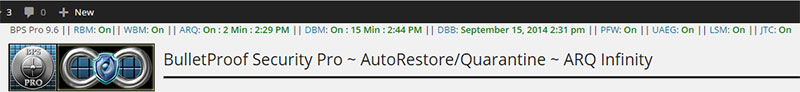
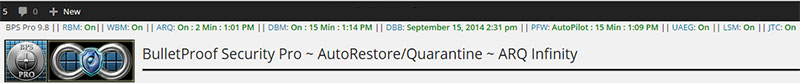
Commit .51.3
git-svn-id: https://plugins.svn.wordpress.org/bulletproof-security/trunk@1028339 b8457f37-d9ea-0310-8a92-e5e31aec5664

diff --git a/admin/js/bulletproof-security-admin-5.js b/admin/js/bulletproof-security-admin-5.js
@@ -134,7 +134,10 @@ jQuery(document).ready(function($){
 			modal: false,
 		 	width: 400,
 		 	height: 500,			
-		 	position: "center",
+		 	position: { 
+				my: "center", 
+				at: "center" 
+			},
 		 	buttons: {             
 				"Close": function() {                 
 					$(this).dialog("close");             
@@ -162,7 +165,10 @@ jQuery(document).ready(function($){
 			modal: false,
 		 	width: 400,
 		 	height: 500,			
-		 	position: "center",
+		 	position: { 
+				my: "center", 
+				at: "center" 
+			},
 		 	buttons: {             
 				"Close": function() {                 
 					$(this).dialog("close");             
@@ -190,7 +196,10 @@ jQuery(document).ready(function($){
 			modal: false,
 		 	width: 400,
 		 	height: 500,			
-		 	position: "center",
+		 	position: { 
+				my: "center", 
+				at: "center" 
+			},
 		 	buttons: {             
 				"Close": function() {                 
 					$(this).dialog("close");             
@@ -218,7 +227,10 @@ jQuery(document).ready(function($){
 			modal: false,
 		 	width: 400,
 		 	height: 500,			
-		 	position: "center",
+		 	position: { 
+				my: "center", 
+				at: "center" 
+			},
 		 	buttons: {             
 				"Close": function() {                 
 					$(this).dialog("close");             
@@ -246,7 +258,10 @@ jQuery(document).ready(function($){
 			modal: false,
 		 	width: 400,
 		 	height: 500,			
-		 	position: "center",
+		 	position: { 
+				my: "center", 
+				at: "center" 
+			},
 		 	buttons: {             
 				"Close": function() {                 
 					$(this).dialog("close");             
@@ -274,7 +289,10 @@ jQuery(document).ready(function($){
 			modal: false,
 		 	width: 400,
 		 	height: 500,			
-		 	position: "center",
+		 	position: { 
+				my: "center", 
+				at: "center" 
+			},
 		 	buttons: {             
 				"Close": function() {                 
 					$(this).dialog("close");             
@@ -302,7 +320,10 @@ jQuery(document).ready(function($){
 			modal: false,
 		 	width: 400,
 		 	height: 500,			
-		 	position: "center",
+		 	position: { 
+				my: "center", 
+				at: "center" 
+			},
 		 	buttons: {             
 				"Close": function() {                 
 					$(this).dialog("close");             
@@ -330,7 +351,10 @@ jQuery(document).ready(function($){
 			modal: false,
 		 	width: 400,
 		 	height: 500,			
-		 	position: "center",
+		 	position: { 
+				my: "center", 
+				at: "center" 
+			},
 		 	buttons: {             
 				"Close": function() {                 
 					$(this).dialog("close");             
@@ -358,7 +382,10 @@ jQuery(document).ready(function($){
 			modal: false,
 		 	width: 400,
 		 	height: 500,			
-		 	position: "center",
+		 	position: { 
+				my: "center", 
+				at: "center" 
+			},
 		 	buttons: {             
 				"Close": function() {                 
 					$(this).dialog("close");             
@@ -386,7 +413,10 @@ jQuery(document).ready(function($){
 			modal: false,
 		 	width: 400,
 		 	height: 500,			
-		 	position: "center",
+		 	position: { 
+				my: "center", 
+				at: "center" 
+			},
 		 	buttons: {             
 				"Close": function() {                 
 					$(this).dialog("close");             
@@ -414,7 +444,10 @@ jQuery(document).ready(function($){
 			modal: false,
 		 	width: 400,
 		 	height: 500,			
-		 	position: "center",
+		 	position: { 
+				my: "center", 
+				at: "center" 
+			},
 		 	buttons: {             
 				"Close": function() {                 
 					$(this).dialog("close");             
@@ -442,7 +475,10 @@ jQuery(document).ready(function($){
 			modal: false,
 		 	width: 400,
 		 	height: 500,			
-		 	position: "center",
+		 	position: { 
+				my: "center", 
+				at: "center" 
+			},
 		 	buttons: {             
 				"Close": function() {                 
 					$(this).dialog("close");             
@@ -470,7 +506,10 @@ jQuery(document).ready(function($){
 			modal: false,
 		 	width: 400,
 		 	height: 500,			
-		 	position: "center",
+		 	position: { 
+				my: "center", 
+				at: "center" 
+			},
 		 	buttons: {             
 				"Close": function() {                 
 					$(this).dialog("close");             
@@ -498,7 +537,10 @@ jQuery(document).ready(function($){
 			modal: false,
 		 	width: 400,
 		 	height: 500,			
-		 	position: "center",
+		 	position: { 
+				my: "center", 
+				at: "center" 
+			},
 		 	buttons: {             
 				"Close": function() {                 
 					$(this).dialog("close");             
@@ -526,7 +568,10 @@ jQuery(document).ready(function($){
 			modal: false,
 		 	width: 400,
 		 	height: 500,			
-		 	position: "center",
+		 	position: { 
+				my: "center", 
+				at: "center" 
+			},
 		 	buttons: {             
 				"Close": function() {                 
 					$(this).dialog("close");             
@@ -554,7 +599,10 @@ jQuery(document).ready(function($){
 			modal: false,
 		 	width: 400,
 		 	height: 500,			
-		 	position: "center",
+		 	position: { 
+				my: "center", 
+				at: "center" 
+			},
 		 	buttons: {             
 				"Close": function() {                 
 					$(this).dialog("close");             
@@ -582,7 +630,10 @@ jQuery(document).ready(function($){
 			modal: false,
 		 	width: 400,
 		 	height: 500,			
-		 	position: "center",
+		 	position: { 
+				my: "center", 
+				at: "center" 
+			},
 		 	buttons: {             
 				"Close": function() {                 
 					$(this).dialog("close");             
@@ -610,7 +661,10 @@ jQuery(document).ready(function($){
 			modal: false,
 		 	width: 400,
 		 	height: 500,			
-		 	position: "center",
+		 	position: { 
+				my: "center", 
+				at: "center" 
+			},
 		 	buttons: {             
 				"Close": function() {                 
 					$(this).dialog("close");             
@@ -638,7 +692,10 @@ jQuery(document).ready(function($){
 			modal: false,
 		 	width: 400,
 		 	height: 500,			
-		 	position: "center",
+		 	position: { 
+				my: "center", 
+				at: "center" 
+			},
 		 	buttons: {             
 				"Close": function() {                 
 					$(this).dialog("close");             
@@ -666,7 +723,10 @@ jQuery(document).ready(function($){
 			modal: false,
 		 	width: 400,
 		 	height: 500,			
-		 	position: "center",
+		 	position: { 
+				my: "center", 
+				at: "center" 
+			},
 		 	buttons: {             
 				"Close": function() {                 
 					$(this).dialog("close");             
@@ -694,7 +754,10 @@ jQuery(document).ready(function($){
 			modal: false,
 		 	width: 400,
 		 	height: 500,			
-		 	position: "center",
+		 	position: { 
+				my: "center", 
+				at: "center" 
+			},
 		 	buttons: {             
 				"Close": function() {                 
 					$(this).dialog("close");             
@@ -722,7 +785,10 @@ jQuery(document).ready(function($){
 			modal: false,
 		 	width: 400,
 		 	height: 500,			
-		 	position: "center",
+		 	position: { 
+				my: "center", 
+				at: "center" 
+			},
 		 	buttons: {             
 				"Close": function() {                 
 					$(this).dialog("close");             

diff --git a/admin/core/options.php b/admin/core/options.php
@@ -1557,7 +1557,26 @@ if ( !current_user_can('manage_options') ) {
   </tr> 
   <tr>
     <td class="bps-table_cell_no_border">&bull;</td>
-    <td class="bps-table_cell_no_border"><?php $text = '<h3><strong>'.__('Significant Root and wp-admin htaccess File Changes:', 'bulletproof-security').'</strong></h3>'.__('Most significant changes/fixes/improvements to the BPS root and wp-admin htaccess files.<br>For additional information about these changes click this Forum link: ', 'bulletproof-security').'<strong><a href="http://forum.ait-pro.com/forums/topic/root-and-wp-admin-htaccess-file-significant-changes/ target="_blank" title="Significant Root and wp-admin htaccess File Changes">'.__('Significant Root and wp-admin htaccess File Changes', 'bulletproof-security').'</a></strong><br><br><strong>&bull; Root htaccess File/Code Fix:</strong> Removal of additional instances of "BEGIN WordPress" and "END WordPress" text from the root htaccess file which caused multiple instances of the default wp htaccess code to be created in the root htaccess file when the WP flush_rewrite_rules function was executed by other plugins and themes.<br><br><strong>&bull; htaccess Help Text Improvement Overall:</strong> The help text throughout both the root and wp-admin htaccess files was very dated and was in need of updating. Better/clearer examples have been created in the help text. Overall the htaccess files are more streamlined and less cluttered looking visually.<br><br><strong>&bull; Structure/Order Code Changes:</strong> Several blocks of htaccess code has been structured differently as far as the general order/sequence of code goes in the root htaccess file and more importantly what code will remain in the root htaccess file in the event that the WP flush_rewrite_rules function is executed by another plugin or theme. There are several technical reasons for making these structure/order changes, which I will not bore you with. Basically things are structured/ordered much better for any/every possible scenario that may occur.<br><br><strong>Note:</strong> This is a one-time BPS Update that requires manual steps to be performed. All future versions of BPS will do the normal/typical automatic update of the BPS htaccess files. Overall we felt that creating a Notice about these significant changes vs just doing a normal automatic update was the best route to take for the primary reasons stated above and some additional reasons not stated here.'; echo $text; ?>
+    <td class="bps-table_cell_no_border"><?php $text = '<h3><strong>'.__('WordPress 4.1 jQuery UI Compatibility Code Correction:', 'bulletproof-security').'</strong></h3>'.__('<strong>Bug:</strong> BPS jQuery UI Dialog Read Me help window position not centered in WordPress 4.1.', 'bulletproof-security').'<br>'.__('<strong>Fix:</strong> Corrected the BPS jQuery UI Dialog Position Method code by adding the appropriate "my" and "at" options.', 'bulletproof-security').'<br>'.__('<strong>Note:</strong> For anyone else experiencing this issue see this Forum Topic for the solution: ', 'bulletproof-security').'<strong><a href="http://forum.ait-pro.com/forums/topic/wordpress-4-1-jquery-ui-dialog-window-position-not-centered/" target="_blank" title="jQuery UI Dialog window position not centered">'.__('jQuery UI Dialog window position not centered', 'bulletproof-security').'</a></strong>'; echo $text; ?>
+</td>
+  </tr> 
+  <tr>
+    <td class="bps-table_cell_no_border">&bull;</td>
+    <td class="bps-table_cell_no_border"><?php $text = '<h3><strong>'.__('Help Link Corrections:', 'bulletproof-security').'</strong></h3>'.__('Special thanks to WordPress Member: ', 'bulletproof-security').'<strong><a href="https://wordpress.org/support/profile/mrppp" target="_blank" title="WordPress Member mrppp">'.__('mrppp', 'bulletproof-security').'</a></strong>'.__(' for finding and reporting invalid help links in BPS.', 'bulletproof-security'); echo $text; ?>
+</td>
+  </tr> 
+   <tr>
+    <td class="bps-table_cell_no_border">&nbsp;</td>
+    <td class="bps-table_cell_no_border">&nbsp;</td>
+  </tr> 
+  <tr>
+    <td class="bps-table_cell_no_border">&bull;</td>
+    <td class="bps-table_cell_no_border"><?php $text = '<h2><strong>'.__('Whats New in BPS .51.2', 'bulletproof-security').'</strong></h2>'; echo $text; ?>
+</td>
+  </tr> 
+  <tr>
+    <td class="bps-table_cell_no_border">&bull;</td>
+    <td class="bps-table_cell_no_border"><?php $text = '<h3><strong>'.__('Significant Root and wp-admin htaccess File Changes:', 'bulletproof-security').'</strong></h3>'.__('Most significant changes/fixes/improvements to the BPS root and wp-admin htaccess files.<br>For additional information about these changes click this Forum link: ', 'bulletproof-security').'<strong><a href="http://forum.ait-pro.com/forums/topic/root-and-wp-admin-htaccess-file-significant-changes/" target="_blank" title="Significant Root and wp-admin htaccess File Changes">'.__('Significant Root and wp-admin htaccess File Changes', 'bulletproof-security').'</a></strong><br><br><strong>&bull; Root htaccess File/Code Fix:</strong> Removal of additional instances of "BEGIN WordPress" and "END WordPress" text from the root htaccess file which caused multiple instances of the default wp htaccess code to be created in the root htaccess file when the WP flush_rewrite_rules function was executed by other plugins and themes.<br><br><strong>&bull; htaccess Help Text Improvement Overall:</strong> The help text throughout both the root and wp-admin htaccess files was very dated and was in need of updating. Better/clearer examples have been created in the help text. Overall the htaccess files are more streamlined and less cluttered looking visually.<br><br><strong>&bull; Structure/Order Code Changes:</strong> Several blocks of htaccess code has been structured differently as far as the general order/sequence of code goes in the root htaccess file and more importantly what code will remain in the root htaccess file in the event that the WP flush_rewrite_rules function is executed by another plugin or theme. There are several technical reasons for making these structure/order changes, which I will not bore you with. Basically things are structured/ordered much better for any/every possible scenario that may occur.<br><br><strong>Note:</strong> This is a one-time BPS Update that requires manual steps to be performed. All future versions of BPS will do the normal/typical automatic update of the BPS htaccess files. Overall we felt that creating a Notice about these significant changes vs just doing a normal automatic update was the best route to take for the primary reasons stated above and some additional reasons not stated here.'; echo $text; ?>
 </td>
   </tr>
   <tr>
@@ -1663,7 +1682,7 @@ jQuery(document).ready(function($){
 
 <?php echo '<strong>'; _e('DB Diff Tool: ', 'bulletproof-security'); echo '</strong>'; _e('The DB Diff Tool compares old database tables from DB backups to current database tables and displays any differences in the data/content of those 2 database tables. The DB Diff Tool allows you to check your WordPress Database if you receive a DB Monitor email alert and do not recognize the database table name change/modification.', 'bulletproof-security'); ?><br /><br />
 
-<?php echo '<strong>'; _e('Plugin Firewall: ', 'bulletproof-security'); echo '</strong>'; _e('The Plugin Firewall / Plugins BulletProof Mode prevents/blocks/forbids Remote Access to the plugins folder from external sources (remote script execution, hacker recon, remote scanning, remote accessibility, etc.) and only allows internal access to the plugins folder based on this criteria: Domain name, Server IP Address and Public IP / Your Computer IP Address.', 'bulletproof-security'); ?><br /><br />
+<?php echo '<strong>'; _e('Plugin Firewall: ', 'bulletproof-security'); echo '</strong>'; _e('The Plugin Firewall / Plugins BulletProof Mode prevents/blocks/forbids Remote Access to the plugins folder from external sources (remote script execution, hacker recon, remote scanning, remote accessibility, etc.) and only allows internal access to the plugins folder based on this criteria: Domain name, Server IP Address and Public IP / Your Computer IP Address. True IP based Firewall that updates your IP addres in real-time when it changes. AutoPilot Mode automatically creates plugin whitelist rules in real-time.', 'bulletproof-security'); ?><br /><br />
 
 <?php echo '<strong>'; _e('Uploads Folder Anti-Exploit Guard: ', 'bulletproof-security'); echo '</strong>'; _e('The Uploads Folder Anti-Exploit Guard / Uploads BulletProof Mode allows ONLY safe image files with valid image file extensions such as jpg, gif, png, etc. to be accessed, opened or viewed from the uploads folder. The Uploads Anti-Exploit Guard prevents/blocks/forbids files by file extension names in the uploads folder from being accessed, opened, viewed, processed or executed.', 'bulletproof-security'); ?><br /><br />
 

diff --git a/admin/core/core-custom-code.php b/admin/core/core-custom-code.php
@@ -45,7 +45,7 @@ bps_CustomCode_BPSQSE_check();
 	<?php settings_fields('bulletproof_security_options_customcode'); ?>
 	<?php $options = get_option('bulletproof_security_options_customcode'); ?>
     
-    <strong><label for="bps-CCode"><?php _e('CUSTOM CODE TOP PHP/PHP.INI HANDLER/CACHE CODE:<br>Add php/php.ini handler code, cache code and/or <a href=http://forum.ait-pro.com/forums/topic/htaccess-caching-code-speed-boost-cache-code/" title="Link opens in a new Browser window" target="_blank" style="font-size:11px;">Speed Boost Cache Code</a> here', 'bulletproof-security'); ?> </label></strong><br />
+    <strong><label for="bps-CCode"><?php _e('CUSTOM CODE TOP PHP/PHP.INI HANDLER/CACHE CODE:<br>Add php/php.ini handler code, cache code and/or <a href="http://forum.ait-pro.com/forums/topic/htaccess-caching-code-speed-boost-cache-code/" title="Link opens in a new Browser window" target="_blank" style="font-size:11px;">Speed Boost Cache Code</a> here', 'bulletproof-security'); ?> </label></strong><br />
 <strong><label for="bps-CCode"><?php $text = '<font color="blue">'.__('ONLY add valid php/php.ini handler htaccess code and/or cache htaccess code below or text commented out with a pound sign #', 'bulletproof-security').'</font>'; echo $text ; ?> </label></strong><br />
     <textarea class="bps-text-area-custom-code" name="bulletproof_security_options_customcode[bps_customcode_one]" tabindex="1"><?php echo $options['bps_customcode_one']; ?></textarea>
     </td>

diff --git a/bulletproof-security.php b/bulletproof-security.php
@@ -5,7 +5,7 @@ Plugin URI: http://forum.ait-pro.com/read-me-first/
 Text Domain: bulletproof-security
 Domain Path: /languages/
 Description: Website Security Protection: BulletProof Security protects your website against 100,000's of different hacking attempts/attacks. Built-in .htaccess file Editor. Security Logging/HTTP Error Logging. Login Security/Login Monitoring: Log All Account Logins or Log Only Account Lockouts. DB Backup: Database Backup. Website FrontEnd/BackEnd Maintenance Mode. System Info: PHP, MySQL, OS, Server, Memory Usage, IP, SAPI, WP Filesystem API Method, DNS, Max Upload...
-Version: .51.2
+Version: .51.3
 Author: AITpro | Edward Alexander
 Author URI: http://forum.ait-pro.com/read-me-first/
 */
@@ -28,9 +28,9 @@ Author URI: http://forum.ait-pro.com/read-me-first/
 */
 
 // BPS variables
-define( 'BULLETPROOF_VERSION', '.51.2' );
-$bps_last_version = '.51.1';
-$bps_version = '.51.2';
+define( 'BULLETPROOF_VERSION', '.51.3' );
+$bps_last_version = '.51.2';
+$bps_version = '.51.3';
 $bps_readme_install_ver = '1';
 
 // Load BPS Global class - not doing anything with this Class in BPS Free
